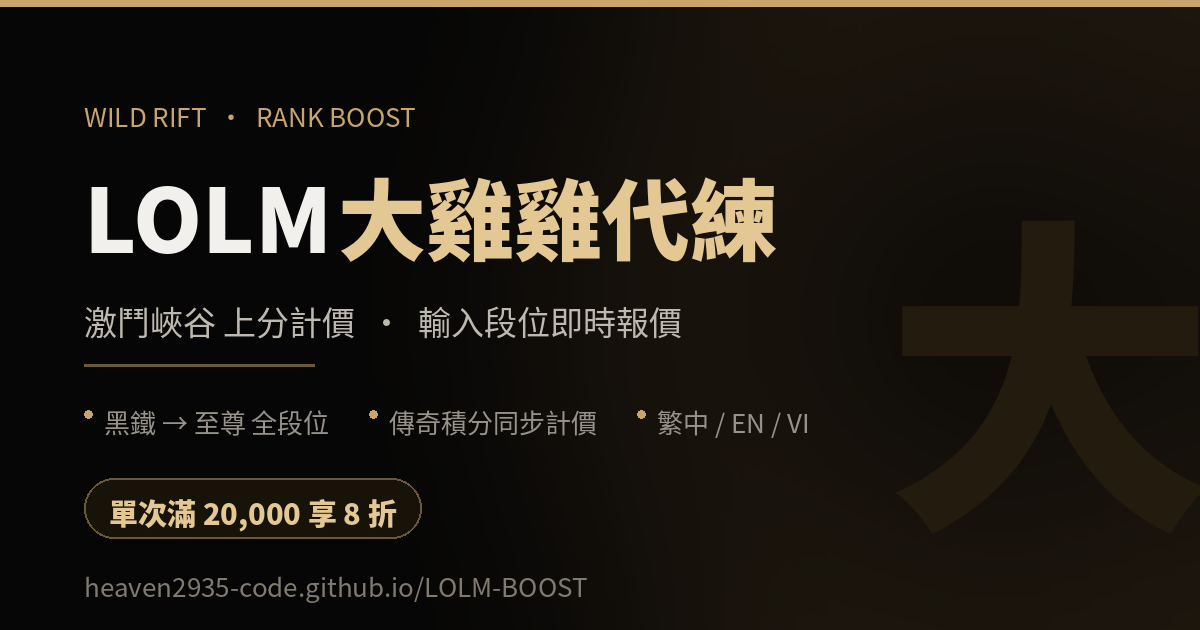
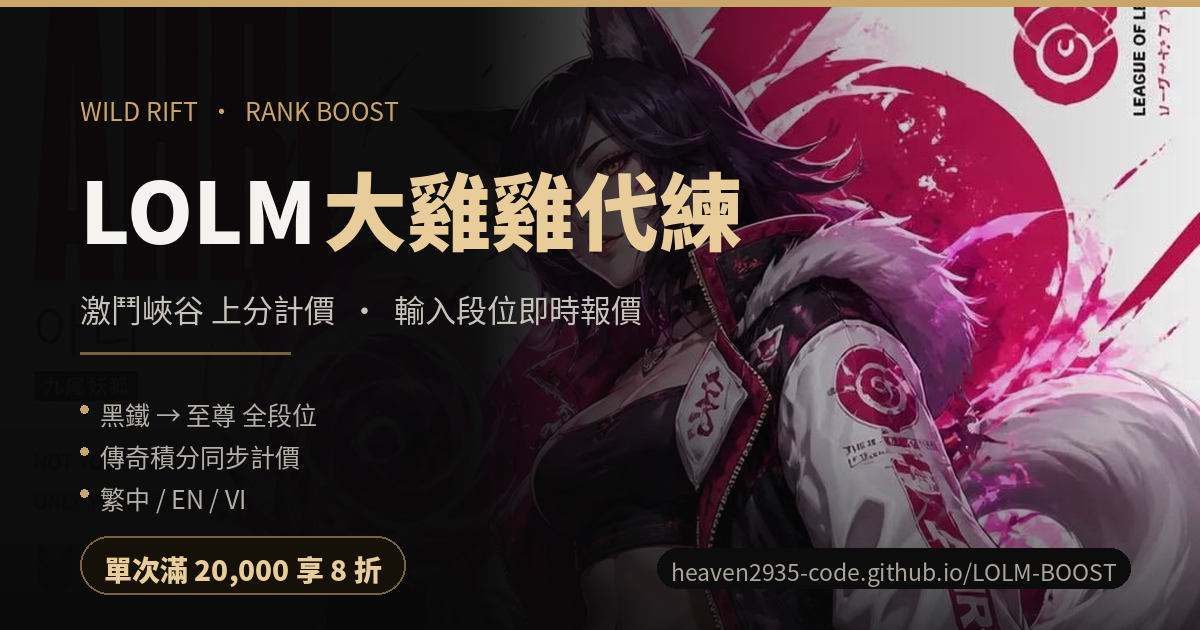
Add files via upload

diff --git a/index.html b/index.html
@@ -14,7 +14,7 @@
 <meta property="og:title" content="LOLM 大雞雞代練｜激鬥峽谷上分計價">
 <meta property="og:description" content="輸入段位即時報價，黑鐵到至尊全段位、傳奇積分同步計價，單次滿額最高 8 折。">
 <meta property="og:url" content="https://heaven2935-code.github.io/LOLM-BOOST/">
-<meta property="og:image" content="https://heaven2935-code.github.io/LOLM-BOOST/og.png">
+<meta property="og:image" content="https://heaven2935-code.github.io/LOLM-BOOST/og.png?v=5?v=5?v=5">
 <meta property="og:image:width" content="1200">
 <meta property="og:image:height" content="630">
 <meta property="og:locale" content="zh_TW">
@@ -22,26 +22,29 @@
 <meta name="twitter:card" content="summary_large_image">
 <meta name="twitter:title" content="LOLM 大雞雞代練｜激鬥峽谷上分計價">
 <meta name="twitter:description" content="輸入段位即時報價，傳奇積分同步計價，單次滿額最高 8 折。">
-<meta name="twitter:image" content="https://heaven2935-code.github.io/LOLM-BOOST/og.png">
-<link rel="apple-touch-icon" href="https://heaven2935-code.github.io/LOLM-BOOST/og.png">
+<meta name="twitter:image" content="https://heaven2935-code.github.io/LOLM-BOOST/og.png?v=5?v=5?v=5">
+<link rel="apple-touch-icon" href="https://heaven2935-code.github.io/LOLM-BOOST/og.png?v=5?v=5?v=5">
 <link rel="preconnect" href="https://fonts.googleapis.com">
 <link rel="preconnect" href="https://fonts.gstatic.com" crossorigin>
 <link href="https://fonts.googleapis.com/css2?family=Oswald:wght@400;500;600;700&family=Noto+Sans+TC:wght@400;500;700;900&display=swap" rel="stylesheet">
 <style>
   :root{
     color-scheme:dark;
-    --bg:#0A0A0A; --card:#131313; --card-2:#181818; --field:#1C1C1C;
+    --bg:transparent; --card:rgba(19,19,19,.80); --card-2:rgba(24,24,24,.86); --field:rgba(28,28,28,.88);
     --line:#262626; --line-2:#1E1E1E;
     --text:#F2F0EC; --text-2:#B8B3AA; --muted:#7A756C;
     --gold:#C9A46B; --gold-lite:#E4C894; --gold-dim:#6B5836;
   }
   *{box-sizing:border-box;-webkit-tap-highlight-color:transparent}
-  html,body{margin:0;background:#0A0A0A}
-  body::before{content:'';position:fixed;inset:0;z-index:-1;pointer-events:none;
+  html{background:#0A0A0A}
+  body{margin:0;background:transparent}
+  body::before{content:'';position:fixed;inset:0;z-index:-2;pointer-events:none;
     background-image:var(--pagebg,none);background-size:cover;background-position:center top;
-    opacity:.07;filter:grayscale(.2)}
+    opacity:var(--bgop,.38)}
+  body::after{content:'';position:fixed;inset:0;z-index:-1;pointer-events:none;
+    background:linear-gradient(180deg,rgba(10,10,10,.55),rgba(10,10,10,.82) 45%,rgba(10,10,10,.95))}
   body{font-family:"Noto Sans TC","PingFang TC","Microsoft JhengHei",sans-serif;-webkit-font-smoothing:antialiased}
-  .shell{max-width:520px;margin:0 auto;padding:18px 14px 40px;color:var(--text);background:var(--bg)}
+  .shell{max-width:520px;margin:0 auto;padding:18px 14px 40px;color:var(--text);background:transparent}
 
   .lang{display:flex;gap:6px;justify-content:flex-end;margin-bottom:12px}
   .lang button{padding:6px 12px;font-family:"Oswald",sans-serif;font-size:11px;letter-spacing:.12em;
@@ -82,7 +85,8 @@
   .tabs button.on{background:linear-gradient(160deg,#221C11,#151208);border-color:var(--gold-dim);color:var(--gold-lite)}
 
   .stats{display:grid;grid-template-columns:repeat(3,1fr);gap:8px;margin-bottom:10px}
-  .stat{background:var(--card);border:1px solid var(--line);border-radius:12px;padding:12px 8px;text-align:center}
+  .stat{background:var(--card);border:1px solid var(--line);border-radius:12px;padding:12px 8px;
+    text-align:center;backdrop-filter:blur(10px);-webkit-backdrop-filter:blur(10px)}
   .stat .k{font-family:"Oswald",sans-serif;font-size:9.5px;letter-spacing:.14em;
     color:var(--muted);text-transform:uppercase;margin-bottom:8px}
   .stat .v{font-family:"Oswald",sans-serif;font-size:22px;font-weight:600;color:var(--text);line-height:1}
@@ -90,7 +94,8 @@
   .stat.hero-stat{border-color:var(--gold-dim);background:linear-gradient(165deg,#181410,#131313)}
   .stat.hero-stat .v{color:var(--gold-lite);font-size:24px}
 
-  .card{background:var(--card);border:1px solid var(--line);border-radius:14px;padding:15px;margin-bottom:10px}
+  .card{background:var(--card);border:1px solid var(--line);border-radius:14px;padding:15px;
+    margin-bottom:10px;backdrop-filter:blur(10px);-webkit-backdrop-filter:blur(10px)}
   .card-head{display:flex;align-items:center;gap:9px;margin-bottom:14px}
   .card-head h2{margin:0;font-family:"Oswald","Noto Sans TC",sans-serif;font-size:13px;
     font-weight:600;letter-spacing:.12em;color:var(--text)}
@@ -132,8 +137,9 @@
   select:focus-visible,input:focus-visible,button:focus-visible{outline:1px solid var(--gold);outline-offset:2px}
   .hint{font-size:11px;color:var(--muted);margin-top:9px;letter-spacing:.02em}
 
-  .quote-card{background:linear-gradient(165deg,#181410,var(--card-2));
-    border:1px solid var(--gold-dim);border-radius:14px;padding:17px 16px;margin-bottom:10px}
+  .quote-card{background:linear-gradient(165deg,rgba(24,20,16,.92),rgba(24,24,24,.9));
+    border:1px solid var(--gold-dim);border-radius:14px;padding:17px 16px;margin-bottom:10px;
+    backdrop-filter:blur(12px);-webkit-backdrop-filter:blur(12px)}
   .qlabel{font-family:"Oswald",sans-serif;font-size:10px;letter-spacing:.2em;color:var(--muted);text-transform:uppercase}
   .money{display:flex;align-items:baseline;gap:7px;margin-top:9px;color:var(--gold-lite)}
   .money .cur{font-family:"Oswald",sans-serif;font-size:14px;color:var(--gold);opacity:.85}
@@ -155,7 +161,8 @@
     color:#171207;border-color:var(--gold-lite);font-weight:700}
   .actions button:active{transform:translateY(1px)}
 
-  details{border:1px solid var(--line);border-radius:14px;background:var(--card);padding:0 15px}
+  details{border:1px solid var(--line);border-radius:14px;background:var(--card);padding:0 15px;
+    backdrop-filter:blur(10px);-webkit-backdrop-filter:blur(10px)}
   summary{cursor:pointer;color:var(--text-2);font-family:"Oswald","Noto Sans TC",sans-serif;
     font-size:12.5px;padding:14px 0;list-style:none;display:flex;align-items:center;letter-spacing:.12em}
   summary::-webkit-details-marker{display:none}
@@ -169,11 +176,12 @@
 
   .strip{display:flex;align-items:center;gap:9px;margin-top:12px;padding:14px 15px;
     background:var(--card);border:1px solid var(--line);border-radius:14px;
+    backdrop-filter:blur(10px);-webkit-backdrop-filter:blur(10px);
     font-family:"Oswald","Noto Sans TC",sans-serif;font-size:12px;letter-spacing:.06em;color:var(--text-2)}
   .strip .crown{color:var(--gold)}
   .strip .end{margin-left:auto;color:var(--gold-lite)}
   .seo{margin-top:22px;padding:18px 16px;background:var(--card);border:1px solid var(--line);
-    border-radius:14px;color:var(--muted);font-size:12px;line-height:1.85}
+    border-radius:14px;backdrop-filter:blur(10px);-webkit-backdrop-filter:blur(10px);color:var(--muted);font-size:12px;line-height:1.85}
   .seo h2{font-family:"Oswald","Noto Sans TC",sans-serif;font-size:14px;color:var(--text);
     margin:0 0 10px;letter-spacing:.08em}
   .seo h3{font-family:"Oswald","Noto Sans TC",sans-serif;font-size:12.5px;color:var(--gold);
@@ -345,6 +353,8 @@
    再把檔名填進下面兩行，例如 'logo.png' / 'cover.jpg' ===== */
 const LOGO_URL = '';
 const HERO_URL = 'cover.jpg';
+/* 背景濃度 0（全黑）～ 1（原圖），太亮會看不清字，建議 0.25～0.5 */
+const BG_OPACITY = 0.38;
 
 const $ = id => document.getElementById(id);
 let lang = 'zh';
@@ -757,6 +767,7 @@ $('heroFile').addEventListener('change',e=>{
          document.documentElement.style.setProperty('--pagebg','url("'+u+'")'); }
 });
 if(LOGO_URL) setLogo(LOGO_URL);
+document.documentElement.style.setProperty('--bgop', BG_OPACITY);
 if(HERO_URL){
   setHero(HERO_URL);
   document.documentElement.style.setProperty('--pagebg','url("'+HERO_URL+'")');
